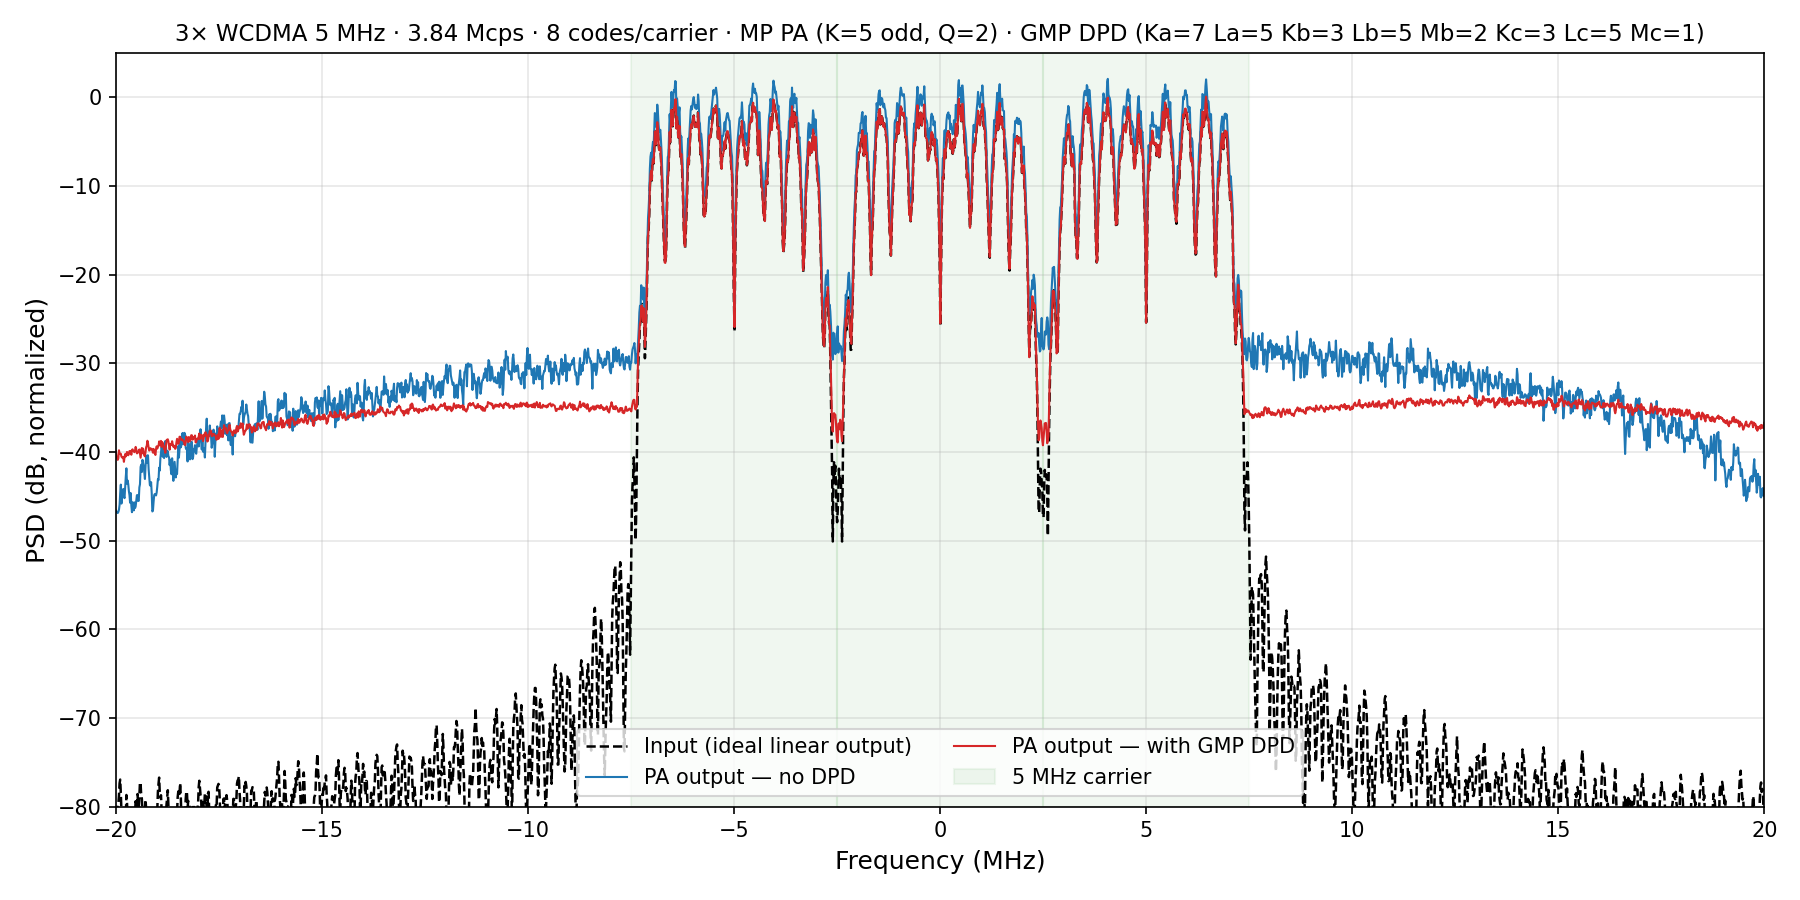
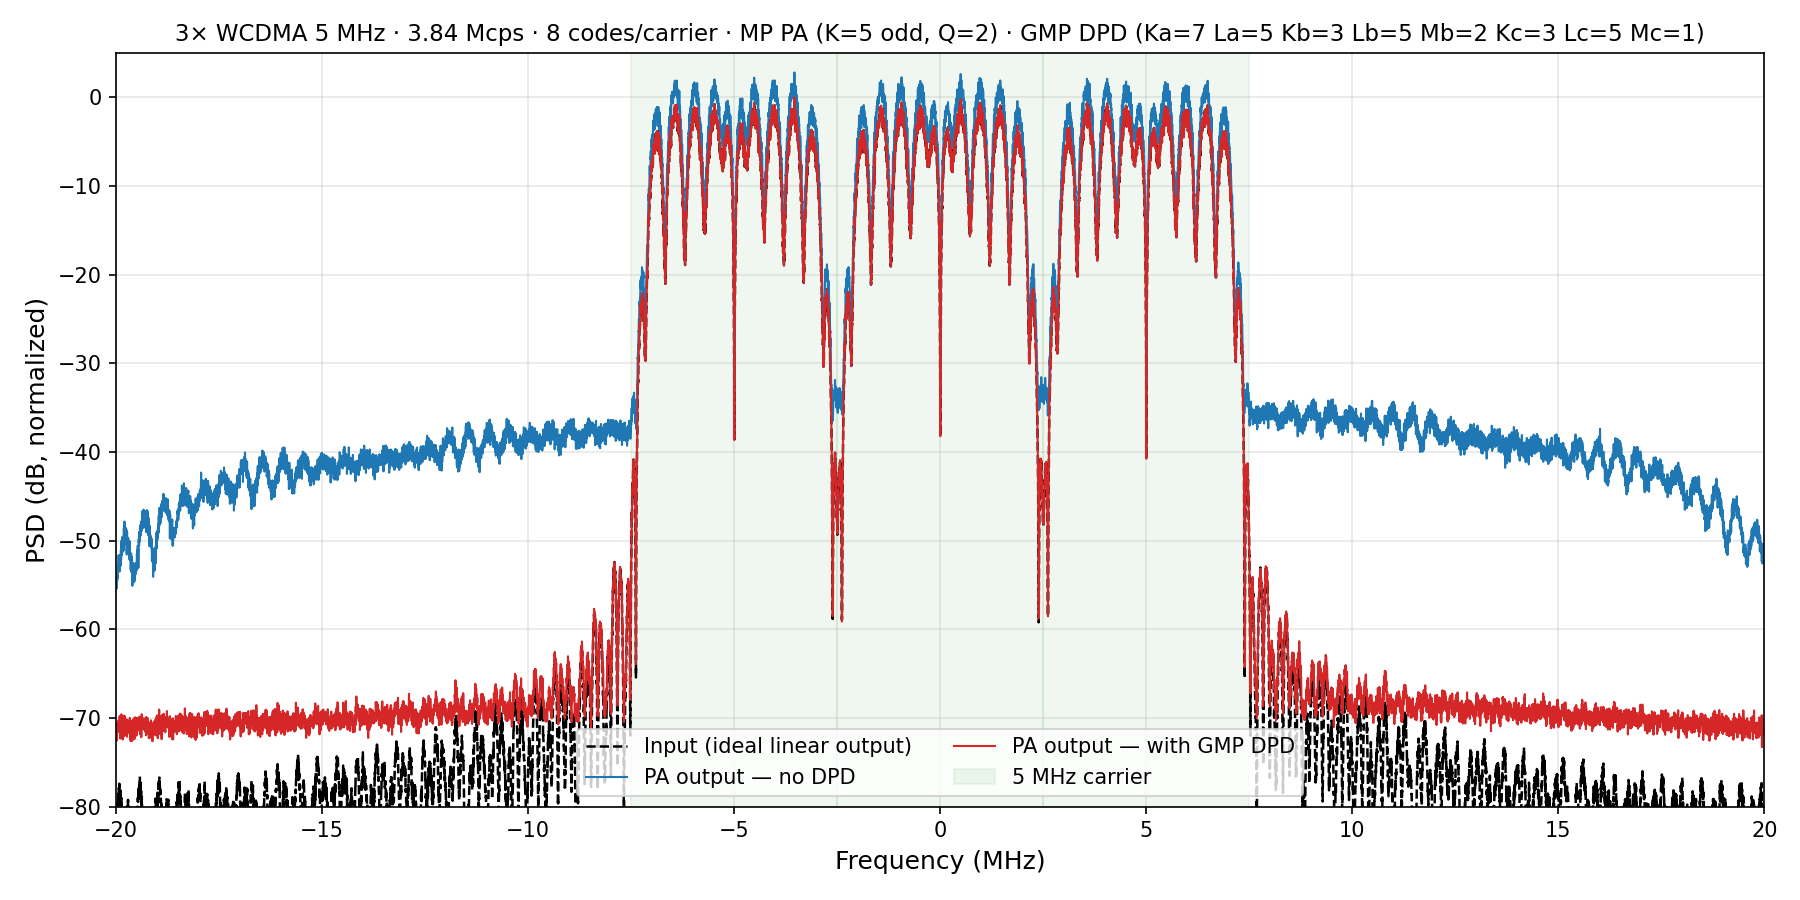
Increase signal length to 1M samples, use 32k FFT with Blackman-Harris
Change PSD FFT length from 4096 to 32768 for finer frequency resolution
(1.875 kHz). Switch window function from default Hann to Blackman-Harris
for deeper sidelobe suppression. Increase input signal to 1M samples
(16.28 ms) for better spectral averaging. Adjust drive level to 0.22
for stable DPD convergence with the longer signal.

Made-with: Cursor

diff --git a/gmp_dpd_standalone.py b/gmp_dpd_standalone.py
@@ -500,8 +500,8 @@ def main():
     fs              = 61.44e6   # sampling rate → ±30.72 MHz Nyquist
     n_codes         = 8         # active codes per carrier
 
-    N_train = 200_000
-    N_test  = 50_000
+    N_train = 1_000_000
+    N_test  = 1_000_000
 
     print(f"WCDMA signal: {n_carriers}× carriers, {carrier_bw_mhz} MHz each, "
           f"aggregate BW={bw_mhz} MHz, chip rate={chip_rate/1e6:.2f} Mcps, "
@@ -517,8 +517,8 @@ def main():
         N_test, n_carriers=n_carriers, carrier_spacing=carrier_spacing,
         n_codes=n_codes, chip_rate=chip_rate, fs=fs)
 
-    # Scale signal to drive the PA into significant compression.
-    target_rms = 0.28
+    # Scale signal to drive the PA into moderate compression.
+    target_rms = 0.22
     x_train_c *= target_rms / np.sqrt(np.mean(np.abs(x_train_c)**2))
     x_test_c  *= target_rms / np.sqrt(np.mean(np.abs(x_test_c)**2))
 
@@ -574,7 +574,7 @@ def main():
     nmse_after  = nmse_db(y_test_with_dpd, ideal_output)
 
     channel_bw_hz = bw_mhz * 1e6
-    nperseg_metric = 4096
+    nperseg_metric = 32768
     aclr_lo_no,  aclr_hi_no  = aclr_db(y_test_no_dpd,  fs, channel_bw_hz, nperseg=nperseg_metric)
     aclr_lo_dpd, aclr_hi_dpd = aclr_db(y_test_with_dpd, fs, channel_bw_hz, nperseg=nperseg_metric)
     aclr_lo_ideal, aclr_hi_ideal = aclr_db(ideal_output, fs, channel_bw_hz, nperseg=nperseg_metric)
@@ -598,11 +598,13 @@ def main():
         import matplotlib.pyplot as plt
         from scipy.signal import welch
 
-        nperseg_psd = 4096
+        from scipy.signal.windows import blackmanharris
+        nperseg_psd = 32768
+        psd_window = blackmanharris(nperseg_psd)
 
         def compute_psd(iq):
             c = iq_to_complex(iq) if iq.ndim == 2 else iq
-            f, p = welch(c, fs=fs, nperseg=nperseg_psd,
+            f, p = welch(c, fs=fs, nperseg=nperseg_psd, window=psd_window,
                          noverlap=nperseg_psd // 2,
                          return_onesided=False, scaling='density')
             idx = np.argsort(f)
